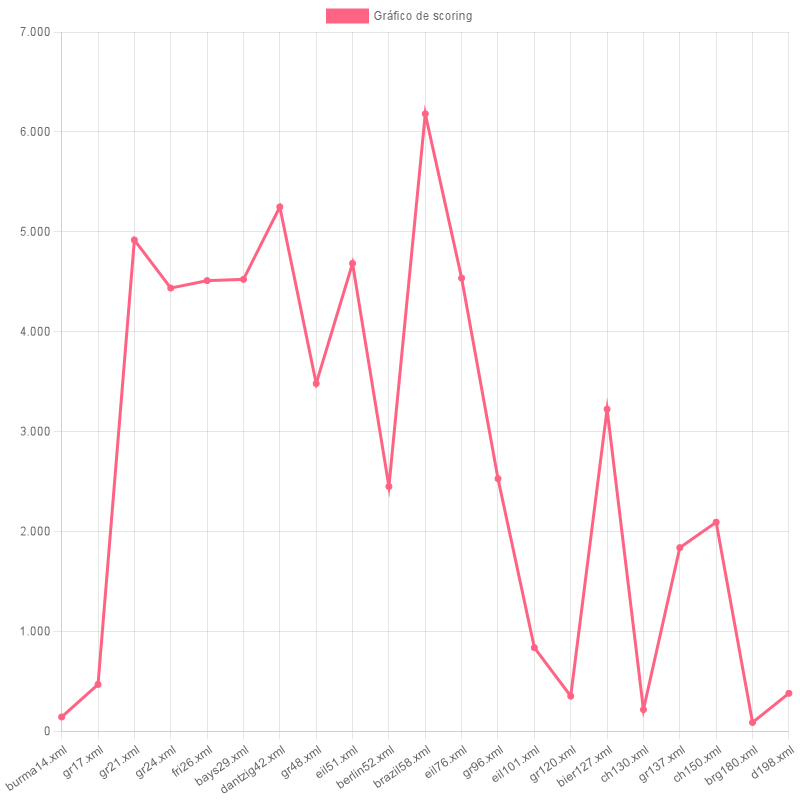
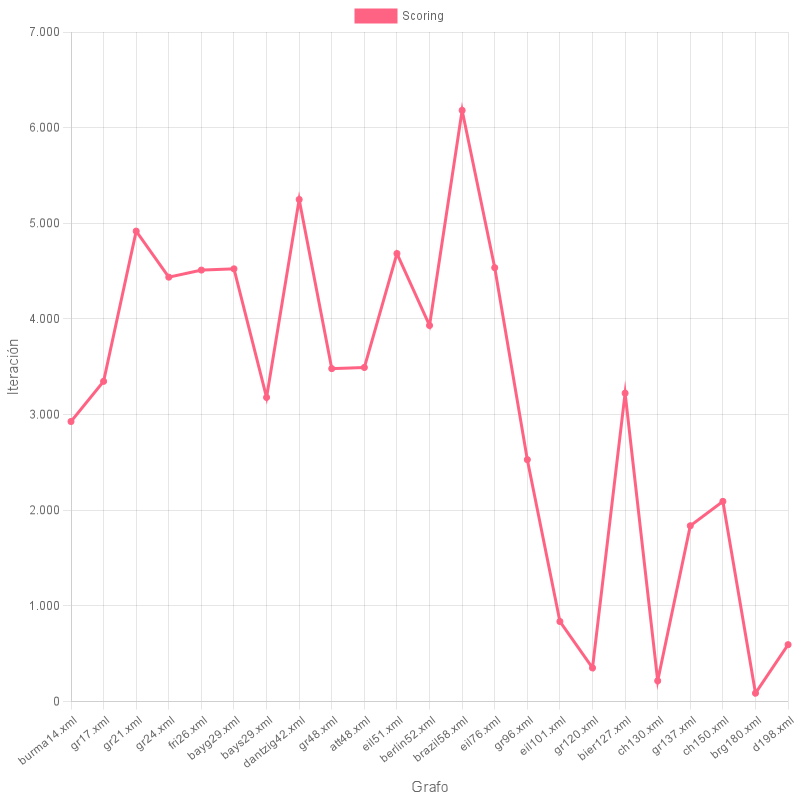
Se completan registros de pruebas y se agregan labels a los ejes en graficos de scoring

diff --git a/src/scoring.js b/src/scoring.js
@@ -11,33 +11,55 @@ import { exportarGrafico } from "./utils/exporter.js";
 
 const scoring = {
   [GRAFOS._14_NODOS]: Math.max(
-    //Mejor costo encontrado: 3233
-    9,
-    22,
-    136,
-    72,
-    51,
-    143,
-    30,
-    28,
-    22,
-    79
+    //Mejor costo encontrado: 3323
+    651,
+    756,
+    231,
+    1675,
+    47,
+    410,
+    229,
+    1594,
+    309,
+    2928
   ),
   [GRAFOS._17_NODOS]: Math.max(
-    //Mejor costo encontrado: ?
-    32,
-    18,
-    34,
-    22,
-    30,
-    469,
-    16,
-    147,
-    98,
+    //Mejor costo encontrado: 2182
+    1957,
+    898,
+    3348,
+    220,
+    116,
+    188,
+    52,
+    942,
+    674,
     275
   ),
-  [GRAFOS._21_NODOS]: Math.max(3754, 240, 213, 46, 1308, 455, 4918, 300, 1527, 1485), //Mejor costo encontrado: 1130
-  [GRAFOS._24_NODOS]: Math.max(484, 28, 1344, 29, 1607, 1623, 550, 142, 406, 4437),
+  [GRAFOS._21_NODOS]: Math.max(
+    3754,
+    240,
+    213,
+    46,
+    1308,
+    455,
+    4918,
+    300,
+    1527,
+    1485
+  ), //Mejor costo encontrado: 1130
+  [GRAFOS._24_NODOS]: Math.max(
+    484,
+    28,
+    1344,
+    29,
+    1607,
+    1623,
+    550,
+    142,
+    406,
+    4437
+  ),
   [GRAFOS._26_NODOS]: Math.max(
     //Mejor costo encontrado: 700
     1583,
@@ -51,7 +73,7 @@ const scoring = {
     1469,
     4511
   ),
-  [GRAFOS._29_NODOS_]: Math.max(
+  [GRAFOS._29_NODOS]: Math.max(
     //Mejor costo encontrado: 1700
     599,
     529,
@@ -64,7 +86,19 @@ const scoring = {
     2,
     3957
   ),
-  // "29'": 1,
+  [GRAFOS._29_NODOS_]: Math.max(
+    //Mejor costo encontrado: 2399
+    2155,
+    2091,
+    60,
+    3180,
+    1541,
+    309,
+    1821,
+    341,
+    93,
+    87
+  ),
   [GRAFOS._42_NODOS]: Math.max(
     //Mejor costo encontrado: 850
     741,
@@ -91,7 +125,19 @@ const scoring = {
     3459,
     2891
   ),
-  // "48'": 1,
+  [GRAFOS._48_NODOS_]: Math.max(
+    //Mejor costo encontrado: 14523
+    2606,
+    346,
+    229,
+    1371,
+    35,
+    2352,
+    2706,
+    1162,
+    3493,
+    1619
+  ),
   [GRAFOS._51_NODOS]: Math.max(
     //Mejor costo encontrado: 508
     582,
@@ -105,7 +151,18 @@ const scoring = {
     346,
     150
   ),
-  [GRAFOS._52_NODOS]: Math.max(68, 8, 416, 1229, 811, 47, 14, 1116, 452, 2450), //Mejor costo encontrado: 9087
+  [GRAFOS._52_NODOS]: Math.max(
+    8,
+    416,
+    1229,
+    811,
+    47,
+    14,
+    1116,
+    452,
+    2450,
+    3932
+  ), //Mejor costo encontrado: 9087
   [GRAFOS._57_NODOS]: Math.max(
     //Mejor costo encontrado: 29041
     2646,
@@ -128,10 +185,14 @@ const scoring = {
   [GRAFOS._137_NODOS]: Math.max(25, 5, 917, 6, 42, 1838), //Mejor costo encontrado: 115832
   [GRAFOS._150_NODOS]: Math.max(3, 10, 2093, 2, 29), //Mejor costo encontrado: 11657
   [GRAFOS._180_NODOS]: Math.max(21, 1, 2, 88, 3), //Mejor costo encontrado: 3480
-  [GRAFOS._198_NODOS]: Math.max(14, 380, 23), //Mejor costo encontrado: 26500
+  [GRAFOS._198_NODOS]: Math.max(14, 380, 23, 9, 595), //Mejor costo encontrado: 26500
 };
 
 const grafos = Object.keys(scoring);
 const iteracionesMaximas = Object.values(scoring);
 
-exportarGrafico("Scoring", grafos, iteracionesMaximas);
+exportarGrafico(
+  "scoring",
+  { label: "Grafo", values: grafos },
+  { label: "Iteración", values: iteracionesMaximas }
+);

diff --git a/src/utils/exporter.js b/src/utils/exporter.js
@@ -12,21 +12,45 @@ const chartJSNodeCanvas = new ChartJSNodeCanvas({
   backgroundColour,
 });
 
-export const exportarGrafico = async (fileName, valuesX, valuesY) => {
+export const exportarGrafico = async (fileName, axisX, axisY) => {
   const configuration = {
     type: "line",
     data: {
-      labels: valuesX,
+      labels: axisX.values,
       datasets: [
         {
           label: fileName,
           backgroundColor: "rgb(255, 99, 132)",
           borderColor: "rgb(255, 99, 132)",
-          data: valuesY,
+          data: axisY.values,
         },
       ],
     },
-    options: {},
+    options: {
+      scales: {
+        xAxes: {
+          title: {
+            display: true,
+            text: axisX.label,
+            font: {
+              size: 15,
+            },
+          },
+        },
+        yAxes: {
+          title: {
+            display: true,
+            text: axisY.label,
+            font: {
+              size: 15,
+            },
+          },
+          ticks: {
+            precision: 0,
+          },
+        },
+      },
+    },
     plugins: [],
   };
 

diff --git a/src/grasp.js b/src/grasp.js
@@ -101,7 +101,11 @@ const grasp = (
 
   return {
     solucion: mejorSolucion,
-    grafico: new Grafico(G.nombre, iteraciones, costos),
+    grafico: new Grafico(
+      G.nombre,
+      { label: "Iteración", values: iteraciones },
+      { label: "Costo", values: costos }
+    ),
   };
 };
 
